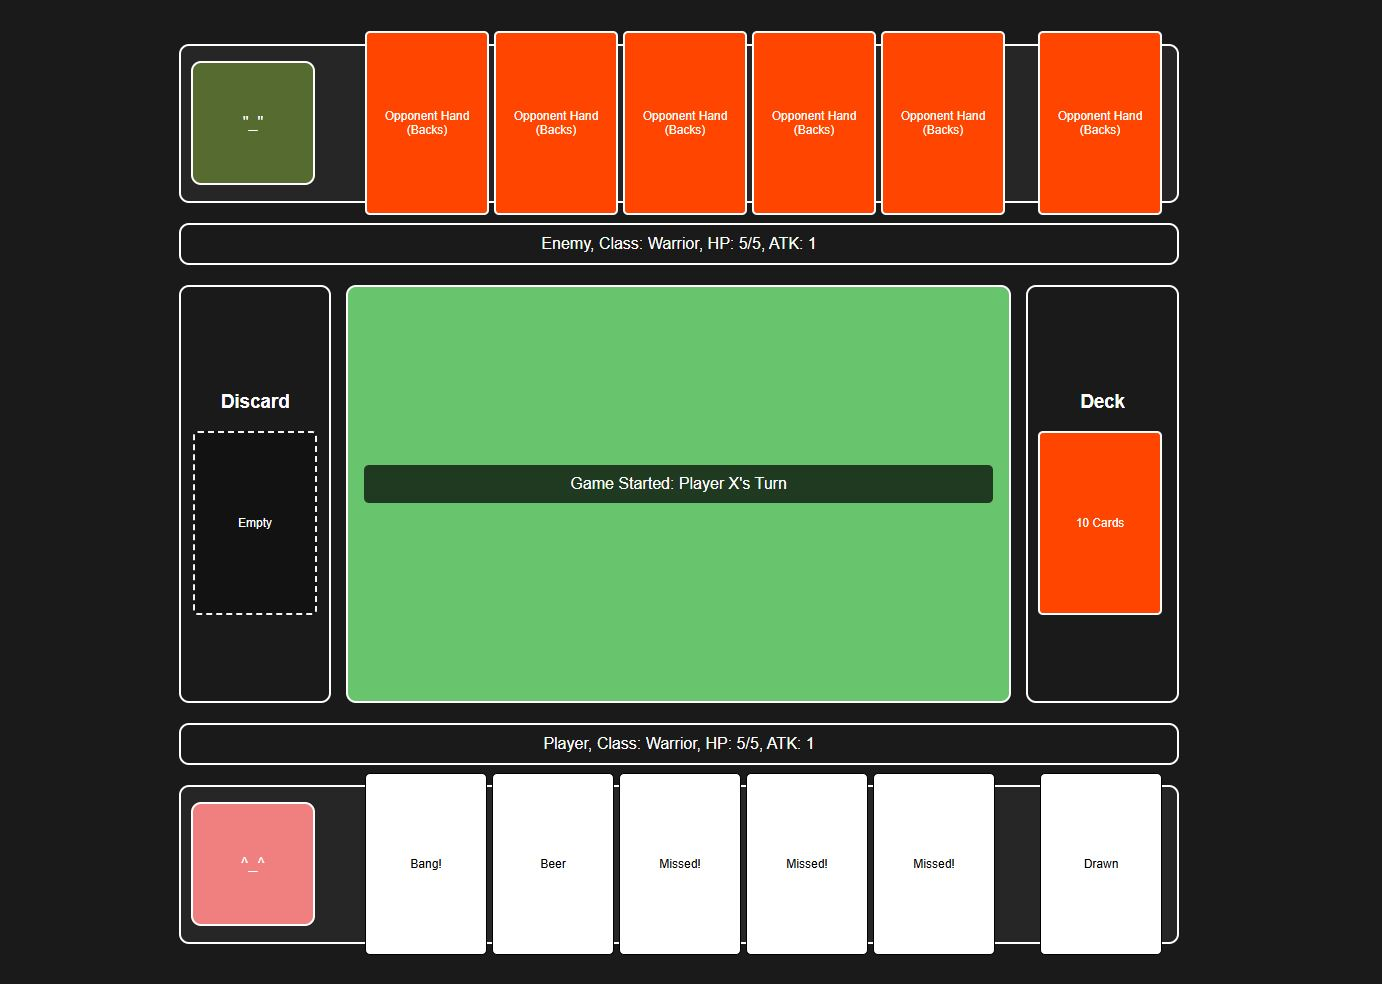
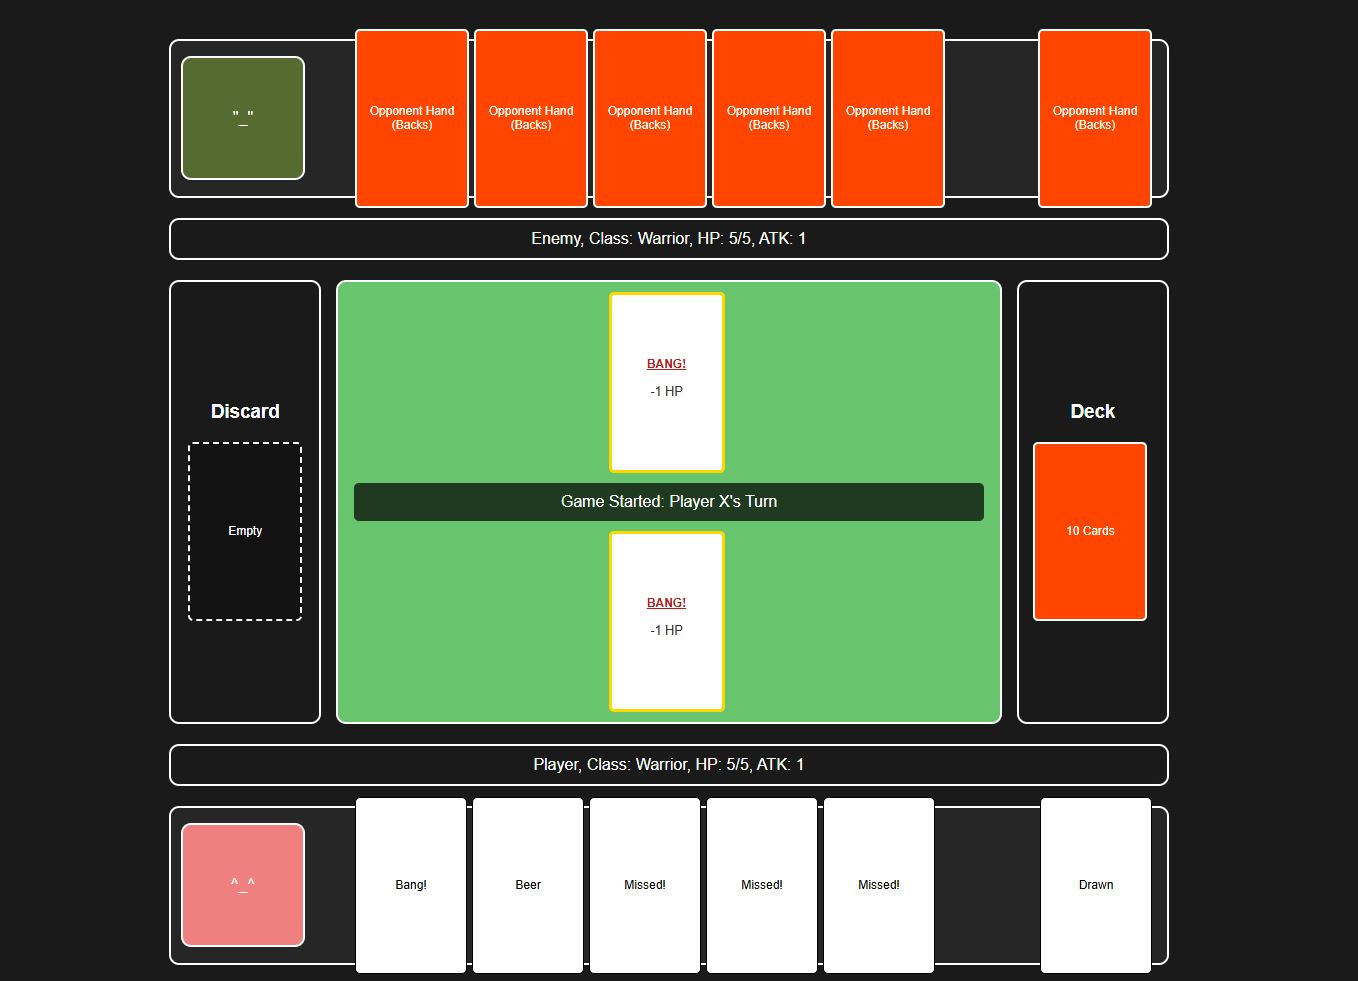
gameboard wireframe
some minor change to finalize

Changed region(s): [[0.1237, 0.0306, 0.866, 1.0]]

diff --git a/style.css b/style.css
@@ -1,7 +1,7 @@
 :root {
   --board-color: #69c46e;
-  --card-width: 120px;
-  --card-height: 180px;
+  --card-width: 110px;
+  --card-height: 175px;
 }
 
 body {
@@ -127,7 +127,26 @@ body {
   background: rgba(0, 0, 0, 0.7);
   padding: 10px;
   border-radius: 5px;
-  margin-bottom: 20px;
+  margin-top: 10px;
+  margin-bottom: 10px;
   width: 95%;
   text-align: center;
+}
+
+.active {
+  border: 3px solid #ffd700;
+  background-color: #fff;
+  z-index: 10; /* Ensures it sits on top of everything else */
+}
+
+/* Styling the text inside the card */
+.card-content h4 {
+  margin: 5px 0;
+  color: #b71c1c; /* Dark red for the card name */
+  text-decoration: underline;
+}
+
+.card-content p {
+  font-size: 0.8rem;
+  color: #333;
 }

diff --git a/index.html b/index.html
@@ -29,8 +29,19 @@
         </div>
 
         <div class="zone play-area">
+          <div class="card active enemy">
+            <div class="card-content">
+              <h4>BANG!</h4>
+              <p>-1 HP</p>
+            </div>
+          </div>
           <div id="dialogue-box">Game Started: Player X's Turn</div>
-          <div class="active-cards"></div>
+          <div class="card active player">
+            <div class="card-content">
+              <h4>BANG!</h4>
+              <p>-1 HP</p>
+            </div>
+          </div>
         </div>
 
         <div class="zone deck-pile">
